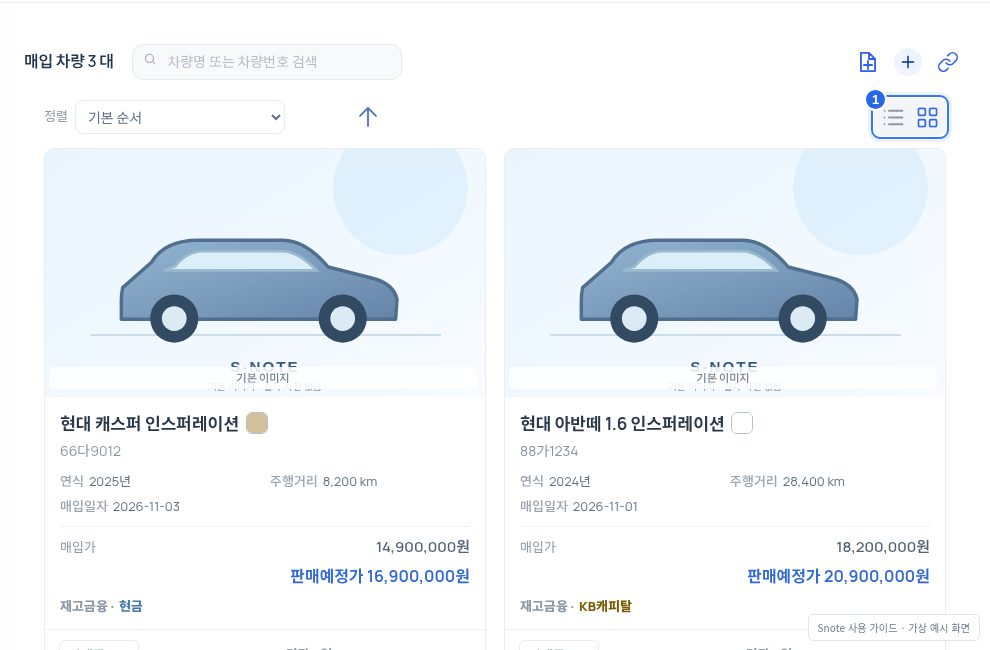
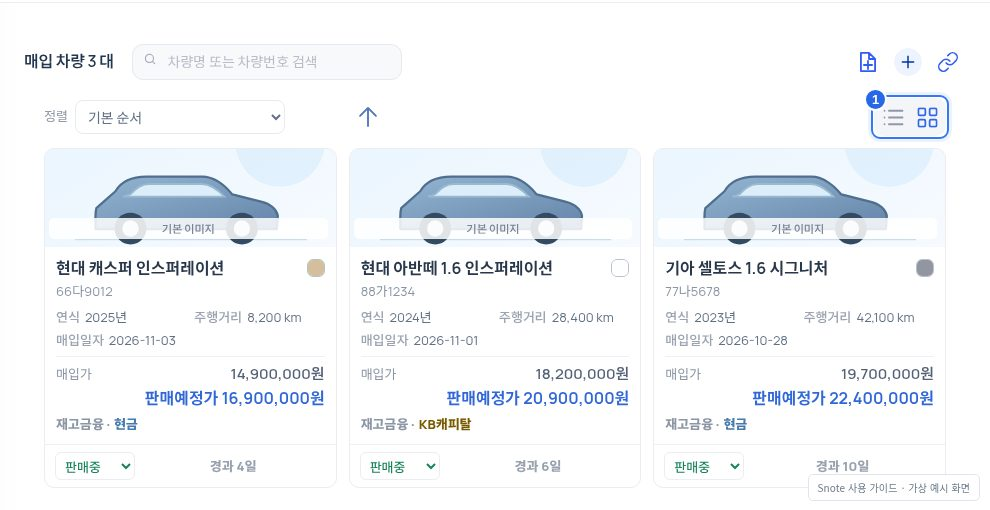
v2.95: compact vehicle cards across desktop and mobile

diff --git a/assets/vehicle-list-view.css b/assets/vehicle-list-view.css
@@ -38,62 +38,66 @@
  }
  #snote-app #list-screen[data-vehicle-view=cards] #list-table {display:none!important}
  #snote-app #list-screen[data-vehicle-view=cards] #list-mobile {
-  display:grid;grid-template-columns:repeat(3,minmax(0,1fr));align-items:stretch;gap:18px;width:100%;padding:0 20px 18px;margin:0;
+  display:grid;grid-template-columns:repeat(4,minmax(0,1fr));align-items:stretch;gap:12px;width:100%;padding:0 20px 14px;margin:0;
  }
  #snote-app #list-screen[data-vehicle-view=cards] #list-mobile > :is(.vehicle-card,.acct-mobile-card) {
-  display:grid;grid-template-columns:minmax(0,1fr);grid-template-rows:auto 1fr auto;align-items:stretch;gap:0;min-width:0;max-width:100%;width:100%;height:100%;margin:0;padding:0;border:1px solid #e6eaf0;border-radius:14px;background:#fff;box-shadow:0 2px 9px #20314804;overflow:hidden;box-sizing:border-box;transition:border-color .18s,box-shadow .18s;
+  display:grid;grid-template-columns:minmax(0,1fr);grid-template-rows:auto 1fr auto;align-items:stretch;gap:0;min-width:0;max-width:100%;width:100%;height:100%;margin:0;padding:0;border:1px solid #e6eaf0;border-radius:11px;background:#fff;box-shadow:0 2px 9px #20314804;overflow:hidden;box-sizing:border-box;transition:border-color .18s,box-shadow .18s;
  }
  #snote-app #list-screen[data-vehicle-view=cards] #list-mobile > :is(.vehicle-card,.acct-mobile-card):hover {border-color:#cbd9f0;box-shadow:0 5px 16px #2741640a}
  #snote-app #list-screen[data-vehicle-view=cards] #list-mobile > :is(.vehicle-card,.acct-mobile-card):focus-visible {outline:2px solid #88afe9;outline-offset:3px}
  #snote-app #list-screen[data-vehicle-view=cards] #list-mobile .vehicle-card > .car-thumb {
-  display:block;position:relative;grid-column:1;grid-row:1;width:100%;height:auto;min-width:0;min-height:0;aspect-ratio:16/9;margin:0;border:0;border-radius:0;background:#f1f4f8;overflow:hidden;box-sizing:border-box;
+  display:block;position:relative;grid-column:1;grid-row:1;width:100%;height:clamp(98px,7.5vw,118px);min-width:0;min-height:0;aspect-ratio:auto;margin:0;border:0;border-radius:0;background:#f1f4f8;overflow:hidden;box-sizing:border-box;
  }
  #snote-app #list-screen[data-vehicle-view=cards] #list-mobile .car-thumb > img {display:block;width:100%;height:100%;max-width:100%;object-fit:cover}
  #snote-app #list-screen[data-vehicle-view=cards] #list-mobile .car-thumb > .zc-ref-label {right:8px;bottom:8px;padding:3px 6px;border-radius:5px;background:#ffffffd9;color:#788395;font-size:9px;font-weight:500;line-height:1.4}
- #snote-app #list-screen[data-vehicle-view=cards] #list-mobile .car-thumb > .snote-shared-vehicle-marker--photo {top:9px;left:9px;width:clamp(24px,2.2vw,28px);height:auto;aspect-ratio:1}
+ #snote-app #list-screen[data-vehicle-view=cards] #list-mobile .car-thumb > .snote-shared-vehicle-marker--photo {top:7px;left:7px;width:24px;height:auto;aspect-ratio:1}
  #snote-app #list-screen[data-vehicle-view=cards] #list-mobile .vehicle-card > .vehicle-info {
-  grid-column:1;grid-row:2;min-width:0;width:auto;padding:14px 15px 12px;margin:0;box-sizing:border-box;
+  grid-column:1;grid-row:2;min-width:0;width:auto;padding:10px 11px 9px;margin:0;box-sizing:border-box;
  }
  #snote-app #list-screen[data-vehicle-view=cards] #list-mobile .vehicle-title {
-  display:flex;align-items:center;gap:7px;flex-wrap:wrap;max-width:100%;margin:0;color:#29374a;font-size:15px;font-weight:650;line-height:1.5;white-space:normal;overflow:visible;text-overflow:clip;overflow-wrap:anywhere;
+  display:grid;grid-template-columns:minmax(0,1fr) auto;align-items:start;gap:5px;max-width:100%;margin:0;color:#29374a;font-size:14px;font-weight:650;line-height:1.4;white-space:normal;overflow:visible;text-overflow:clip;overflow-wrap:anywhere;
  }
  #snote-app #list-screen[data-vehicle-view=cards] #list-mobile .vehicle-title > span:first-child {min-width:0;overflow-wrap:anywhere}
- #snote-app #list-screen[data-vehicle-view=cards] #list-mobile .vehicle-meta {margin:4px 0 0;color:#8a94a3;font-size:12px;line-height:1.5;white-space:normal;overflow-wrap:anywhere}
- #snote-app #list-screen[data-vehicle-view=cards] #list-mobile .snote-company-dealer {margin-top:5px;color:#8190a3;font-size:11px}
+ #snote-app #list-screen[data-vehicle-view=cards] #list-mobile .vehicle-title > .snote222-vehicle-color {align-self:start;width:18px;height:18px;min-width:18px;margin-top:2px}
+ #snote-app #list-screen[data-vehicle-view=cards] #list-mobile .vehicle-meta {margin:3px 0 0;color:#8a94a3;font-size:11px;line-height:1.45;white-space:normal;overflow-wrap:anywhere}
+ #snote-app #list-screen[data-vehicle-view=cards] #list-mobile .snote-company-dealer {margin-top:3px;color:#8190a3;font-size:11px}
  #snote-app #list-screen[data-vehicle-view=cards] #list-mobile .vehicle-inventory-meta {
-  display:grid;grid-template-columns:repeat(2,minmax(0,1fr));gap:5px 10px;margin:11px 0 9px;padding:0 0 10px;border-bottom:1px solid #edf0f4;color:#617084;font-size:11px;line-height:1.5;
+  display:grid;grid-template-columns:repeat(2,minmax(0,1fr));gap:3px 8px;margin:7px 0 6px;padding:0 0 6px;border-bottom:1px solid #edf0f4;color:#617084;font-size:11px;line-height:1.5;
  }
  #snote-app #list-screen[data-vehicle-view=cards] #list-mobile .vehicle-inventory-meta > span {display:flex;align-items:baseline;gap:5px;min-width:0;white-space:normal;overflow-wrap:anywhere}
  #snote-app #list-screen[data-vehicle-view=cards] #list-mobile .vehicle-inventory-meta > span:last-child {grid-column:1/-1}
- #snote-app #list-screen[data-vehicle-view=cards] #list-mobile .vehicle-inventory-meta b {flex:none;color:#9aa3b0;font-weight:500}
- #snote-app #list-screen[data-vehicle-view=cards] #list-mobile .snote-card-buy-price {display:flex;align-items:baseline;justify-content:space-between;gap:10px;min-width:0;margin-top:6px;color:#8c96a5;font-size:11px;line-height:1.5;text-align:left;font-variant-numeric:tabular-nums}
+ #snote-app #list-screen[data-vehicle-view=cards] #list-mobile .vehicle-inventory-meta b {flex:none;color:#9aa3b0;font-size:inherit;font-weight:500}
+ #snote-app #list-screen[data-vehicle-view=cards] #list-mobile .snote-card-buy-price {display:flex;align-items:baseline;justify-content:space-between;gap:8px;min-width:0;margin-top:3px;color:#8c96a5;font-size:11px;line-height:1.4;text-align:left;font-variant-numeric:tabular-nums}
  #snote-app #list-screen[data-vehicle-view=cards] #list-mobile .snote-card-buy-price > strong {min-width:0;color:#536176;font-size:13px;font-weight:550;text-align:right;overflow-wrap:anywhere}
- #snote-app #list-screen[data-vehicle-view=cards] #list-mobile .vehicle-price {display:block;margin:5px 0 0;padding:0;border:0;color:#3168d9;font-size:14px;font-weight:650;line-height:1.6;text-align:right;overflow-wrap:anywhere}
- #snote-app #list-screen[data-vehicle-view=cards] #list-mobile .snote202-mobile-finance {gap:5px;margin:8px 0 0;color:#8c96a5;font-size:11px;line-height:1.5;white-space:normal}
- #snote-app #list-screen[data-vehicle-view=cards] #list-mobile :is(.sale-date-chip,.mobile-media) {display:block;margin:7px 0 0;font-size:11px;line-height:1.5;overflow-wrap:anywhere}
+ #snote-app #list-screen[data-vehicle-view=cards] #list-mobile .vehicle-price {display:block;margin:3px 0 0;padding:0;border:0;color:#3168d9;font-size:14px;font-weight:650;line-height:1.45;text-align:right;overflow-wrap:anywhere}
+ #snote-app #list-screen[data-vehicle-view=cards] #list-mobile .snote202-mobile-finance {gap:4px;margin:5px 0 0;color:#8c96a5;font-size:11px;line-height:1.5;white-space:normal}
+ #snote-app #list-screen[data-vehicle-view=cards] #list-mobile :is(.sale-date-chip,.mobile-media) {display:block;margin:5px 0 0;font-size:11px;line-height:1.5;overflow-wrap:anywhere}
  #snote-app #list-screen[data-vehicle-view=cards] #list-mobile .vehicle-card > .vehicle-right {
-  display:flex;grid-column:1;grid-row:3;align-items:center;align-self:stretch;justify-content:space-between;flex-wrap:wrap;gap:8px;width:auto;min-width:0;margin:0;padding:10px 14px;border-top:1px solid #edf0f4;
+  display:flex;grid-column:1;grid-row:3;align-items:center;align-self:stretch;justify-content:space-between;flex-wrap:wrap;gap:6px;width:auto;min-width:0;margin:0;padding:7px 10px;border-top:1px solid #edf0f4;
  }
  #snote-app #list-screen[data-vehicle-view=cards] #list-mobile .vehicle-right .status-select {width:80px;min-width:76px;max-width:86px;height:28px;min-height:28px;margin:0;padding:4px 5px;font-size:11px;border-radius:6px;background:#fff}
  #snote-app #list-screen[data-vehicle-view=cards] #list-mobile .vehicle-right .snote202-mobile-age {flex:1;margin:0;color:#98a1af;font-size:11px;line-height:1.4;text-align:center}
  #snote-app #list-screen[data-vehicle-view=cards] #list-mobile .vehicle-right .snote-list-encar {width:40px;min-width:40px;height:28px;min-height:28px;margin:0;padding:0}
  #snote-app #list-screen[data-vehicle-view=cards] #list-mobile .vehicle-right .snote-list-encar img {width:34px;height:17px;object-fit:contain}
- #snote-app #list-screen[data-vehicle-view=cards] #list-mobile .acct-mobile-card {display:flex;flex-direction:column;padding:16px}
- #snote-app #list-screen[data-vehicle-view=cards] #list-mobile .acct-mobile-heading {display:flex;align-items:flex-start;justify-content:space-between;flex-wrap:nowrap;gap:10px;min-width:0}
+ #snote-app #list-screen[data-vehicle-view=cards] #list-mobile .acct-mobile-card {display:flex;flex-direction:column;padding:11px}
+ #snote-app #list-screen[data-vehicle-view=cards] #list-mobile .acct-mobile-heading {display:flex;align-items:flex-start;justify-content:space-between;flex-wrap:nowrap;gap:7px;min-width:0}
  #snote-app #list-screen[data-vehicle-view=cards] #list-mobile .acct-mobile-heading .snote222-model-line {flex:1 1 auto;min-width:0;gap:6px}
- #snote-app #list-screen[data-vehicle-view=cards] #list-mobile .acct-mobile-heading strong {font-size:14px;font-weight:650;line-height:1.5;overflow-wrap:anywhere}
+ #snote-app #list-screen[data-vehicle-view=cards] #list-mobile .acct-mobile-heading strong {font-size:13px;font-weight:650;line-height:1.4;overflow-wrap:anywhere}
  #snote-app #list-screen[data-vehicle-view=cards] #list-mobile .acct-mobile-heading .status-select {flex:none;width:80px;min-width:76px;height:28px;min-height:28px;font-size:11px}
- #snote-app #list-screen[data-vehicle-view=cards] #list-mobile .acct-mobile-sub {margin:5px 0 12px;color:#8a94a3;font-size:12px}
- #snote-app #list-screen[data-vehicle-view=cards] #list-mobile .acct-mobile-fields {display:grid;grid-template-columns:repeat(2,minmax(0,1fr));gap:10px 14px;margin:0}
- #snote-app #list-screen[data-vehicle-view=cards] #list-mobile .acct-mobile-fields > div {min-width:0;padding-top:8px;border-top:1px solid #edf0f4}
- #snote-app #list-screen[data-vehicle-view=cards] #list-mobile .acct-mobile-fields label {margin-bottom:4px;color:#98a1af;font-size:11px;line-height:1.4}
+ #snote-app #list-screen[data-vehicle-view=cards] #list-mobile .acct-mobile-sub {margin:3px 0 8px;color:#8a94a3;font-size:11px}
+ #snote-app #list-screen[data-vehicle-view=cards] #list-mobile .acct-mobile-fields {display:grid;grid-template-columns:repeat(2,minmax(0,1fr));gap:7px 9px;margin:0}
+ #snote-app #list-screen[data-vehicle-view=cards] #list-mobile .acct-mobile-fields > div {min-width:0;padding-top:6px;border-top:1px solid #edf0f4}
+ #snote-app #list-screen[data-vehicle-view=cards] #list-mobile .acct-mobile-fields label {margin-bottom:2px;color:#98a1af;font-size:11px;line-height:1.4}
  #snote-app #list-screen[data-vehicle-view=cards] #list-mobile .acct-mobile-fields strong {color:#536176;font-size:13px;font-weight:550;line-height:1.5;overflow-wrap:anywhere}
  #snote-app #list-screen[data-vehicle-view=cards] #list-mobile > .empty {grid-column:1/-1;min-width:0;width:100%;box-sizing:border-box}
 }
-@media screen and (min-width:1640px) {
- #snote-app #list-screen[data-vehicle-view=cards] #list-mobile {grid-template-columns:repeat(4,minmax(0,1fr))}
+@media screen and (min-width:1800px) {
+ #snote-app #list-screen[data-vehicle-view=cards] #list-mobile {grid-template-columns:repeat(5,minmax(0,1fr))}
 }
-@media screen and (min-width:761px) and (max-width:1180px) {
+@media screen and (min-width:1000px) and (max-width:1279px) {
+ #snote-app #list-screen[data-vehicle-view=cards] #list-mobile {grid-template-columns:repeat(3,minmax(0,1fr))}
+}
+@media screen and (min-width:761px) and (max-width:999px) {
  #snote-app #list-screen[data-vehicle-view=cards] #list-mobile {grid-template-columns:repeat(2,minmax(0,1fr))}
 }
 @media screen and (min-width:761px) {
@@ -107,14 +111,27 @@
  #snote-app #list-screen[data-vehicle-view] > .panel > .snote-mobile-sort label {font-size:0!important;gap:0}
  #snote-app #list-screen[data-vehicle-view] > .panel > .snote-mobile-sort select {max-width:none;height:44px;min-height:44px;font-size:16px;padding:7px 6px}
  #snote-app #list-screen[data-vehicle-view] > .panel > .snote-mobile-sort > button {width:44px;min-width:44px;height:44px;min-height:44px}
- #snote-app #list-screen[data-vehicle-view=cards] #list-mobile {grid-template-columns:minmax(0,1fr);gap:14px;padding:0 14px 14px}
- #snote-app #list-screen[data-vehicle-view=cards] #list-mobile .vehicle-title {font-size:16px}
+ #snote-app #list-screen[data-vehicle-view=cards] #list-mobile {grid-template-columns:minmax(0,1fr);gap:10px;padding:0 12px 12px}
+ #snote-app #list-screen[data-vehicle-view=cards] #list-mobile > .vehicle-card {grid-template-columns:120px minmax(0,1fr);grid-template-rows:auto auto;align-items:start;height:auto}
+ #snote-app #list-screen[data-vehicle-view=cards] #list-mobile .vehicle-card > .car-thumb {grid-column:1;grid-row:1/3;align-self:start;width:100px;height:82px;aspect-ratio:auto;margin:10px;border-radius:8px}
+ #snote-app #list-screen[data-vehicle-view=cards] #list-mobile .vehicle-card > .vehicle-info {display:contents}
+ #snote-app #list-screen[data-vehicle-view=cards] #list-mobile .vehicle-info > :not(.vehicle-title,.vehicle-meta) {grid-column:1/-1}
+ #snote-app #list-screen[data-vehicle-view=cards] #list-mobile .vehicle-title {grid-column:2;grid-row:1;align-self:end;padding:10px 10px 0 0;font-size:14px;line-height:1.4}
+ #snote-app #list-screen[data-vehicle-view=cards] #list-mobile .vehicle-meta {grid-column:2;grid-row:2;align-self:start;margin:3px 0 0;padding:0 10px 10px 0;font-size:11px;line-height:1.45}
+ #snote-app #list-screen[data-vehicle-view=cards] #list-mobile .vehicle-info > .snote-company-dealer {margin:0 10px 5px;font-size:11px}
+ #snote-app #list-screen[data-vehicle-view=cards] #list-mobile .vehicle-info > .vehicle-inventory-meta {margin:0 10px 4px;padding:6px 0;border-top:1px solid #edf0f4;border-bottom:0;gap:3px 10px}
+ #snote-app #list-screen[data-vehicle-view=cards] #list-mobile .vehicle-info > .snote-card-buy-price {margin:0 10px 3px}
+ #snote-app #list-screen[data-vehicle-view=cards] #list-mobile .vehicle-info > .vehicle-price {margin:0 10px 0}
+ #snote-app #list-screen[data-vehicle-view=cards] #list-mobile .vehicle-info > :is(.snote202-mobile-finance,.sale-date-chip,.mobile-media) {margin:5px 10px 0}
+ #snote-app #list-screen[data-vehicle-view=cards] #list-mobile .vehicle-card > .vehicle-right {grid-column:1/-1;grid-row:auto;align-self:end;margin-top:8px;padding:5px 10px;gap:6px}
+ #snote-app #list-screen[data-vehicle-view=cards] #list-mobile .car-thumb > .snote-shared-vehicle-marker--photo {top:4px;left:4px;width:24px}
+ #snote-app #list-screen[data-vehicle-view=cards] #list-mobile .car-thumb > .zc-ref-label {right:3px;bottom:3px;padding:2px 4px;font-size:8px}
  #snote-app #list-screen[data-vehicle-view=cards] #list-mobile :is(.vehicle-right,.acct-mobile-heading) .status-select {width:110px;min-width:110px;max-width:110px;height:44px;min-height:44px;font-size:16px}
  #snote-app #list-screen[data-vehicle-view=cards] #list-mobile .vehicle-right .snote-list-encar {width:44px;min-width:44px;height:44px;min-height:44px}
- #snote-app #list-screen[data-vehicle-view=cards] #list-mobile .vehicle-inventory-meta {grid-template-columns:minmax(0,.8fr) minmax(0,1.4fr);font-size:12px}
- #snote-app #list-screen[data-vehicle-view=cards] #list-mobile .snote-card-buy-price {font-size:12px}
- #snote-app #list-screen[data-vehicle-view=cards] #list-mobile .snote-card-buy-price > strong {font-size:14px}
- #snote-app #list-screen[data-vehicle-view=cards] #list-mobile .vehicle-price {font-size:15px}
+ #snote-app #list-screen[data-vehicle-view=cards] #list-mobile .vehicle-inventory-meta {grid-template-columns:minmax(0,.8fr) minmax(0,1.4fr);font-size:11px}
+ #snote-app #list-screen[data-vehicle-view=cards] #list-mobile .snote-card-buy-price {font-size:11px}
+ #snote-app #list-screen[data-vehicle-view=cards] #list-mobile .snote-card-buy-price > strong {font-size:13px}
+ #snote-app #list-screen[data-vehicle-view=cards] #list-mobile .vehicle-price {font-size:14px}
 }
 @media(prefers-reduced-motion:reduce) {
  #snote-app #list-screen .snote-vehicle-view-toggle > button.snote-list-action,

diff --git a/assets/snote-tutorial.js b/assets/snote-tutorial.js
@@ -5,7 +5,7 @@
   {id:'start',title:'화면 익히기',summary:'목록부터 가볍게 둘러봐요',steps:[
    {title:'내 차량 목록에서 시작해요',image:'start-list.jpg',caption:'매입 관리 · 내 차량 목록',text:'로그인하면 매입 관리에서 내 차량을 확인할 수 있어요. 차명이나 차량 사진을 누르면 차량 상세가 열려요.',items:['왼쪽 메뉴에서 매입 관리를 선택해요.','상사매입은 같은 상사의 차량을 보는 관리자 전용 메뉴예요.'],route:'buy',action:'매입 관리 열기'},
    {title:'검색과 정렬로 빠르게 찾아요',image:'start-search.jpg',caption:'차량 검색 · 목록 정렬',text:'목록 위 검색창에 찾는 차량 정보를 입력해 보세요. 목록의 열 제목(차명·차량번호 등)을 누르면 오름차순·내림차순으로 정렬할 수 있어요.',items:['차량번호나 차명으로 검색해요.','목록은 한 페이지에 최대 20대씩 보여요.'],route:'buy',action:'매입 관리 열기'},
-   {title:'사진 중심의 카드 보기로 바꿔요',image:'start-cards.jpg',caption:'차량 목록 · 카드 보기',text:'목록 옆 보기 전환 아이콘으로 목록과 카드 보기를 선택할 수 있어요. 큰 사진으로 차량을 찾고 싶다면 카드 보기를 사용해 보세요.',items:['검색·정렬·페이지는 보기 방식을 바꿔도 유지돼요.','선택한 보기 방식은 이 브라우저에 기억해요.'],route:'buy',action:'매입 관리 열기'}]},
+   {title:'사진과 핵심 정보를 카드로 봐요',image:'start-cards.jpg?v=2.95',caption:'차량 목록 · 간결한 카드 보기',text:'목록 옆 보기 전환 아이콘으로 목록과 카드 보기를 선택할 수 있어요. 사진·차명·금액을 카드에 모아 빠르게 확인해 보세요.',items:['검색·정렬·페이지는 보기 방식을 바꿔도 유지돼요.','선택한 보기 방식은 이 브라우저에 기억해요.'],route:'buy',action:'매입 관리 열기'}]},
   {id:'register',title:'첫 차량 등록',summary:'차종과 금액을 차근차근',steps:[
    {title:'파란 +로 새 차량을 등록해요',image:'register-manual.jpg',caption:'매입 관리 · 차량 신규 등록',text:'매입 관리 제목 옆 파란 + 아이콘을 누르면 등록 창이 열려요. 등록증 사진이 있다면 문서 + 아이콘으로 등록을 시작할 수도 있어요.',items:['새 차량의 차량번호와 기본 정보를 확인해요.','자동 인식한 내용도 등록 전에 한 번 확인해 주세요.'],route:'buy',action:'매입 관리 열기'},
    {title:'제조사부터 트림까지 선택해요',image:'register-catalog.jpg',caption:'신규 등록 · 차종 선택',text:'제조사 → 모델명 → 세부모델 → 트림 순서로 선택해요. 선택 목록에 없는 차량은 직접 입력할 수 있어요.',items:['현재 차량과 연식·세부모델이 같은지 확인해요.','직접 입력한 차명도 저장할 수 있어요.'],route:'buy',action:'매입 관리 열기'},

diff --git a/index.html b/index.html
@@ -1,5 +1,5 @@
 <!doctype html>
-<html lang="ko" data-snote-release="2.94">
+<html lang="ko" data-snote-release="2.95">
 <head>
 <meta charset="utf-8" />
 <meta name="viewport" content="width=device-width, initial-scale=1, viewport-fit=cover" />
@@ -3209,7 +3209,7 @@ button, input, select, textarea { font-family: inherit; }
 <link rel="stylesheet" href="assets/snote-chatbot.css?v=2.94">
 <link rel="stylesheet" href="assets/snote-tutorial.css?v=2.94">
 <link rel="stylesheet" href="assets/vehicle-cost-settings.css?v=2.85">
-<link rel="stylesheet" href="assets/vehicle-list-view.css?v=2.91">
+<link rel="stylesheet" href="assets/vehicle-list-view.css?v=2.95">
 <link rel="stylesheet" href="assets/vehicle-memo.css?v=2.92">
 <link rel="stylesheet" href="assets/sidebar-hover.css?v=2.92">
 </head>
@@ -10028,7 +10028,7 @@ window.zc86Cloud={getAccessToken:async()=>{if(!S.ready||!S.client)return null;co
 <script type="module" src="assets/income-settlement-parent.js?v=2.85"></script>
 <script src="assets/vehicle-sharing.js?v=2.92" defer></script>
 <script src="assets/shared-vehicle-markers.js?v=2.87" defer></script>
-<script src="assets/release-info.js?v=2.94" defer></script>
+<script src="assets/release-info.js?v=2.95" defer></script>
 <script src="assets/company-purchase.js?v=2.77" defer></script>
 <script src="assets/recycle-bin.js?v=2.77" defer></script>
 <script src="assets/profile-editor.js?v=2.79" defer></script>
@@ -10038,7 +10038,7 @@ window.zc86Cloud={getAccessToken:async()=>{if(!S.ready||!S.client)return null;co
 <script src="assets/list-sort.js?v=2.57" defer></script>
 <script src="assets/vehicle-list-view.js?v=2.91" defer></script>
 <script src="assets/workspace-refine.js?v=2.89" defer></script>
-<script src="assets/snote-tutorial.js?v=2.94" defer></script>
+<script src="assets/snote-tutorial.js?v=2.95" defer></script>
 <script src="assets/snote-chatbot.js?v=2.94" defer></script>
 <script src="assets/vehicle-cost-settings.js?v=2.85" defer></script>
 <script src="assets/drawer-motion.js?v=2.48" defer></script>

diff --git a/PROJECT_HISTORY.md b/PROJECT_HISTORY.md
@@ -1,5 +1,12 @@
 # S-NOTE 프로젝트 작업 기록
 
+## 2026-11-07 — v2.95 차량 카드 보기 축소
+
+- 차량 카드의 사진 높이·여백·구분 간격을 줄이고 1440px에서 4열, 1024px에서 3열로 배치한다. 더 넓은 화면은 5열, 작은 태블릿은 2열로 정리한다. 긴 차명과 금액은 줄바꿈으로 읽을 수 있게 유지한다.
+- 모바일은 100×82px 사진과 차명·차량번호를 위에 나란히 두고 세부 정보·금액은 카드 폭 전체를 사용한다. 상태 변경과 광고의 44px 클릭 영역, 공유 표시·정산 버튼과 차량별 정보를 보존한다.
+- 기존 목록 보기와 검색·정렬·20개 페이지·계정별 범위·공유 수락 규칙은 유지하며 DB와 차량 자료를 변경하지 않는다. 사용 튜토리얼의 카드 보기 이미지 한 장도 새 배치로 갱신한다.
+- 검증: 같은 8대 자료의 첫 카드 높이는 PC에서 약 30%, 모바일에서 약 36~45% 감소했다. 1440/1024/390/320px의 기능·긴 차명·큰 금액·공유·광고·목록 보기 배치 검증이 통과했다. [검증 범위](docs/compact-vehicle-cards-verification.json)를 기록한다.
+
 ## 2026-11-07 — v2.94 챗봇 이미지 튜토리얼
 
 - 챗봇 첫 화면에 사용 튜토리얼 메뉴를 추가하고, 튜토리얼·처음 사용·사용법 같은 질문으로도 열 수 있게 한다. 화면 익히기·첫 차량 등록·차량 정보 관리·판매와 문서 출력·공유와 고객 관리·설정과 복원을 6개 주제와 18단계로 안내한다.
